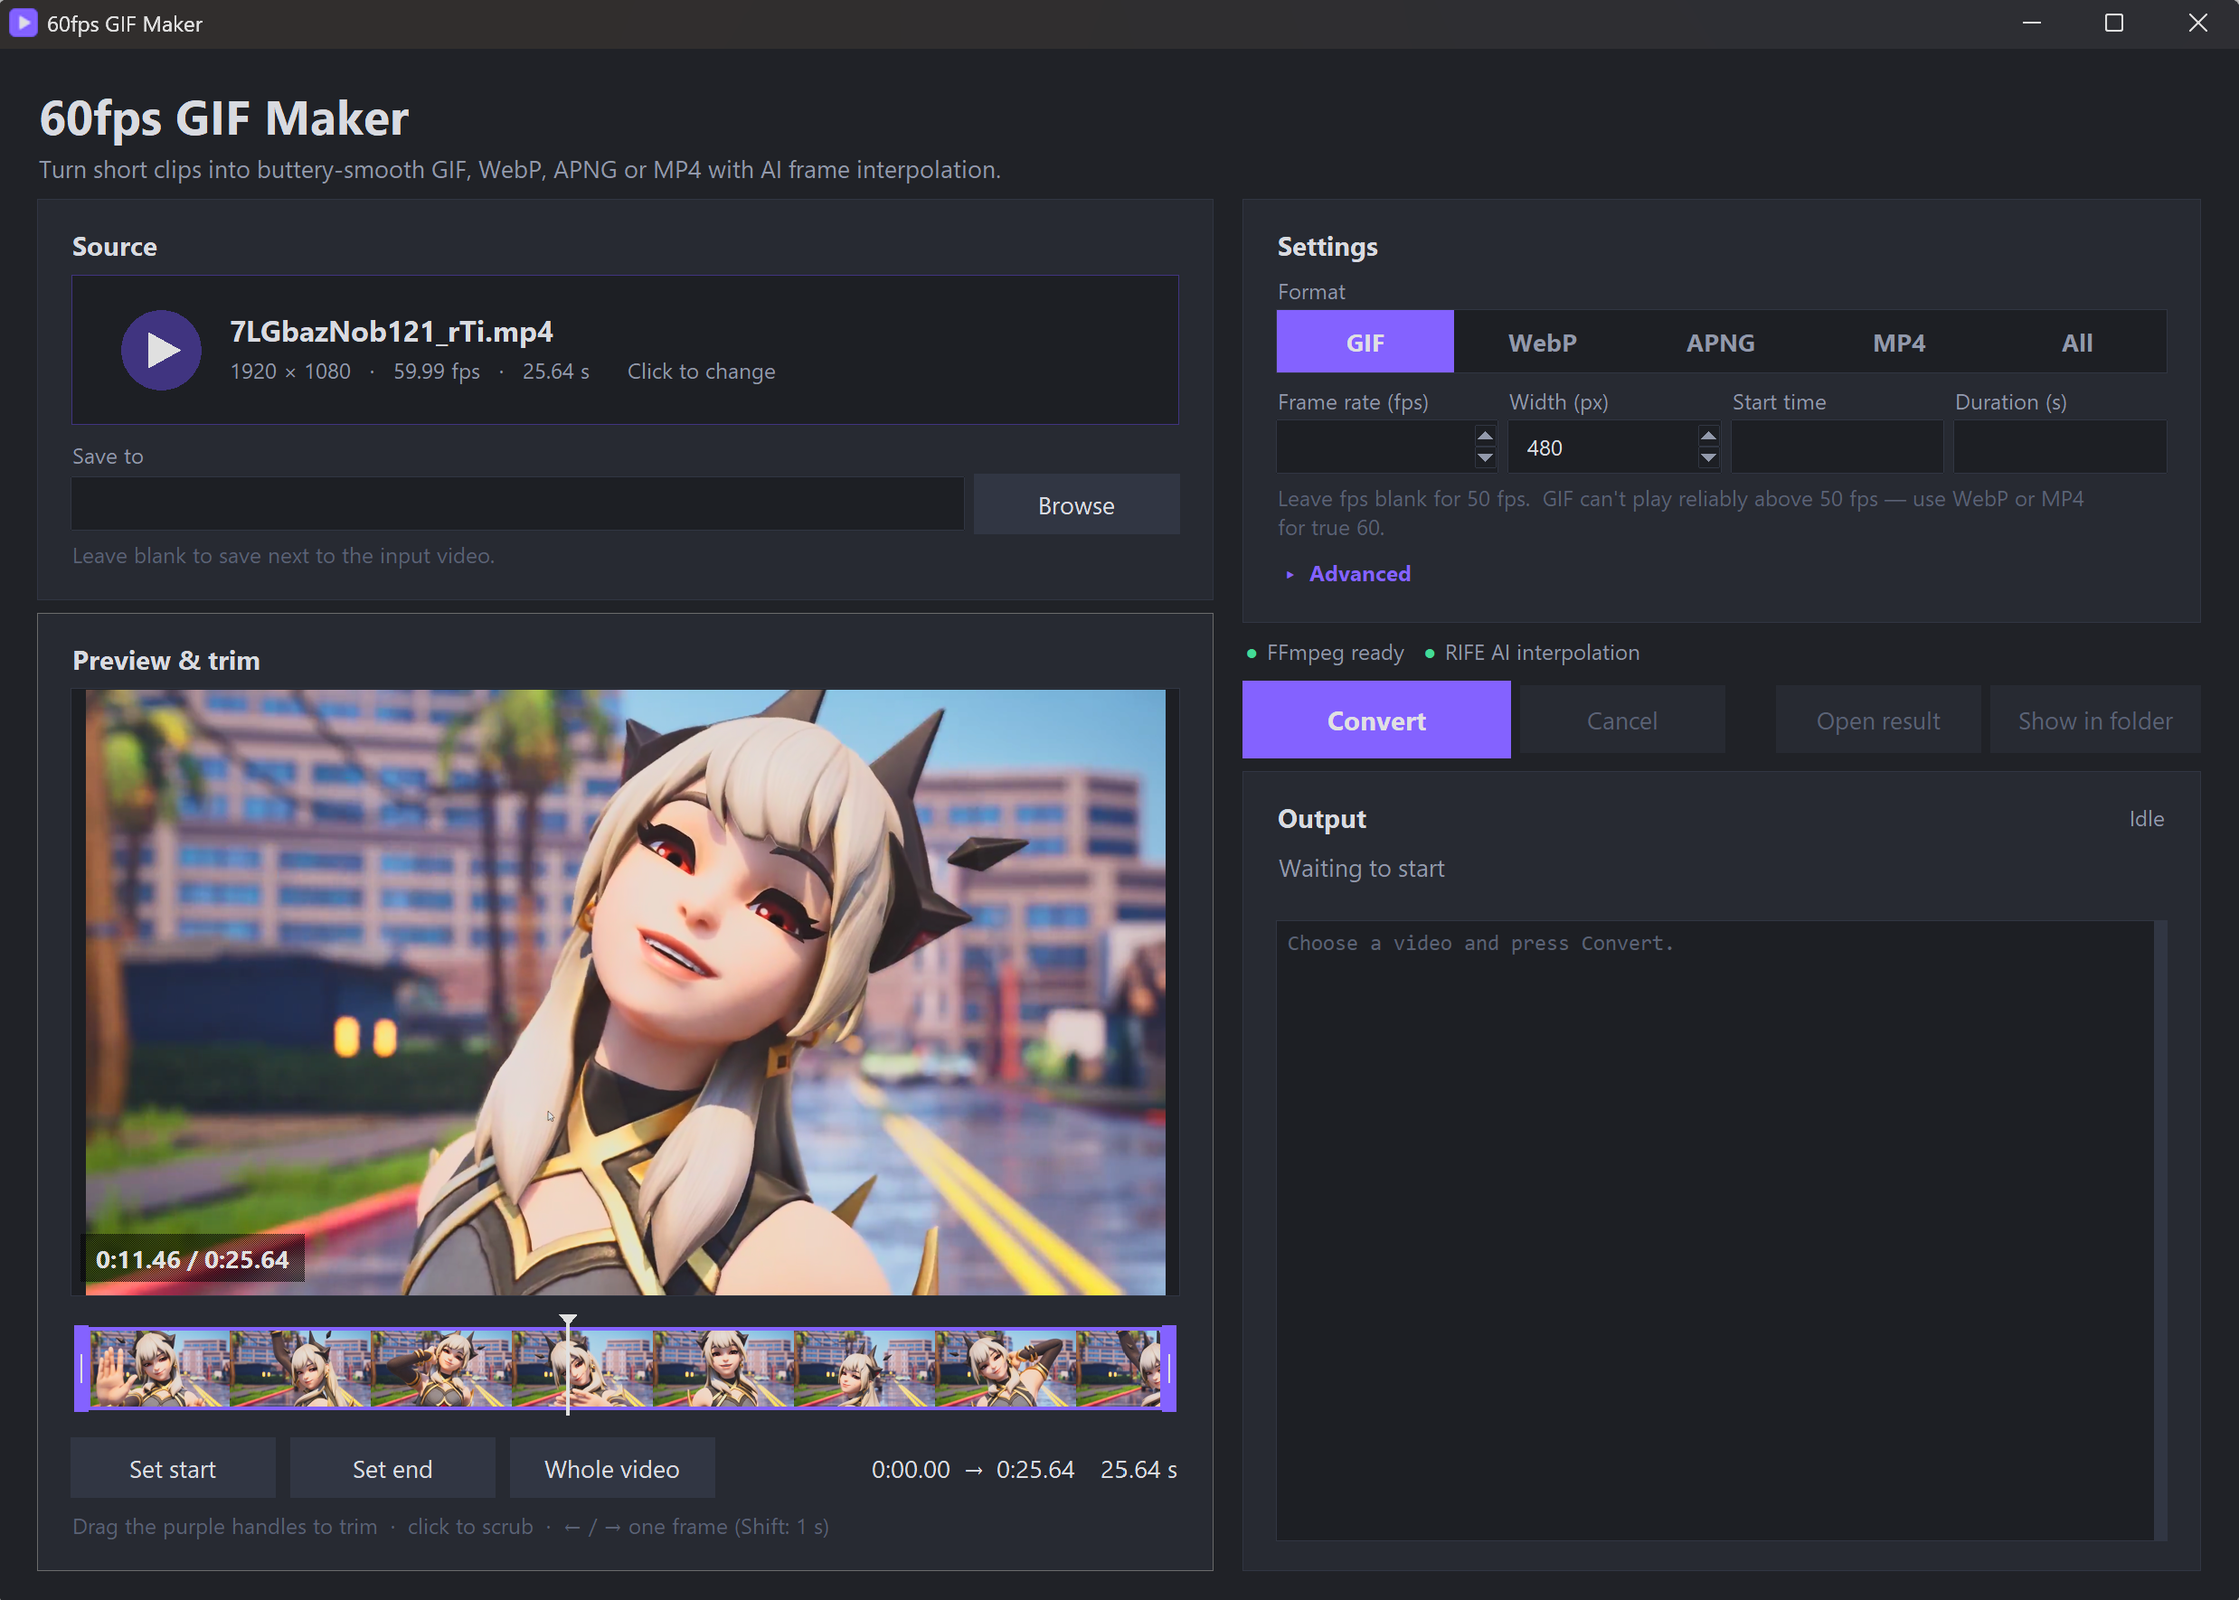
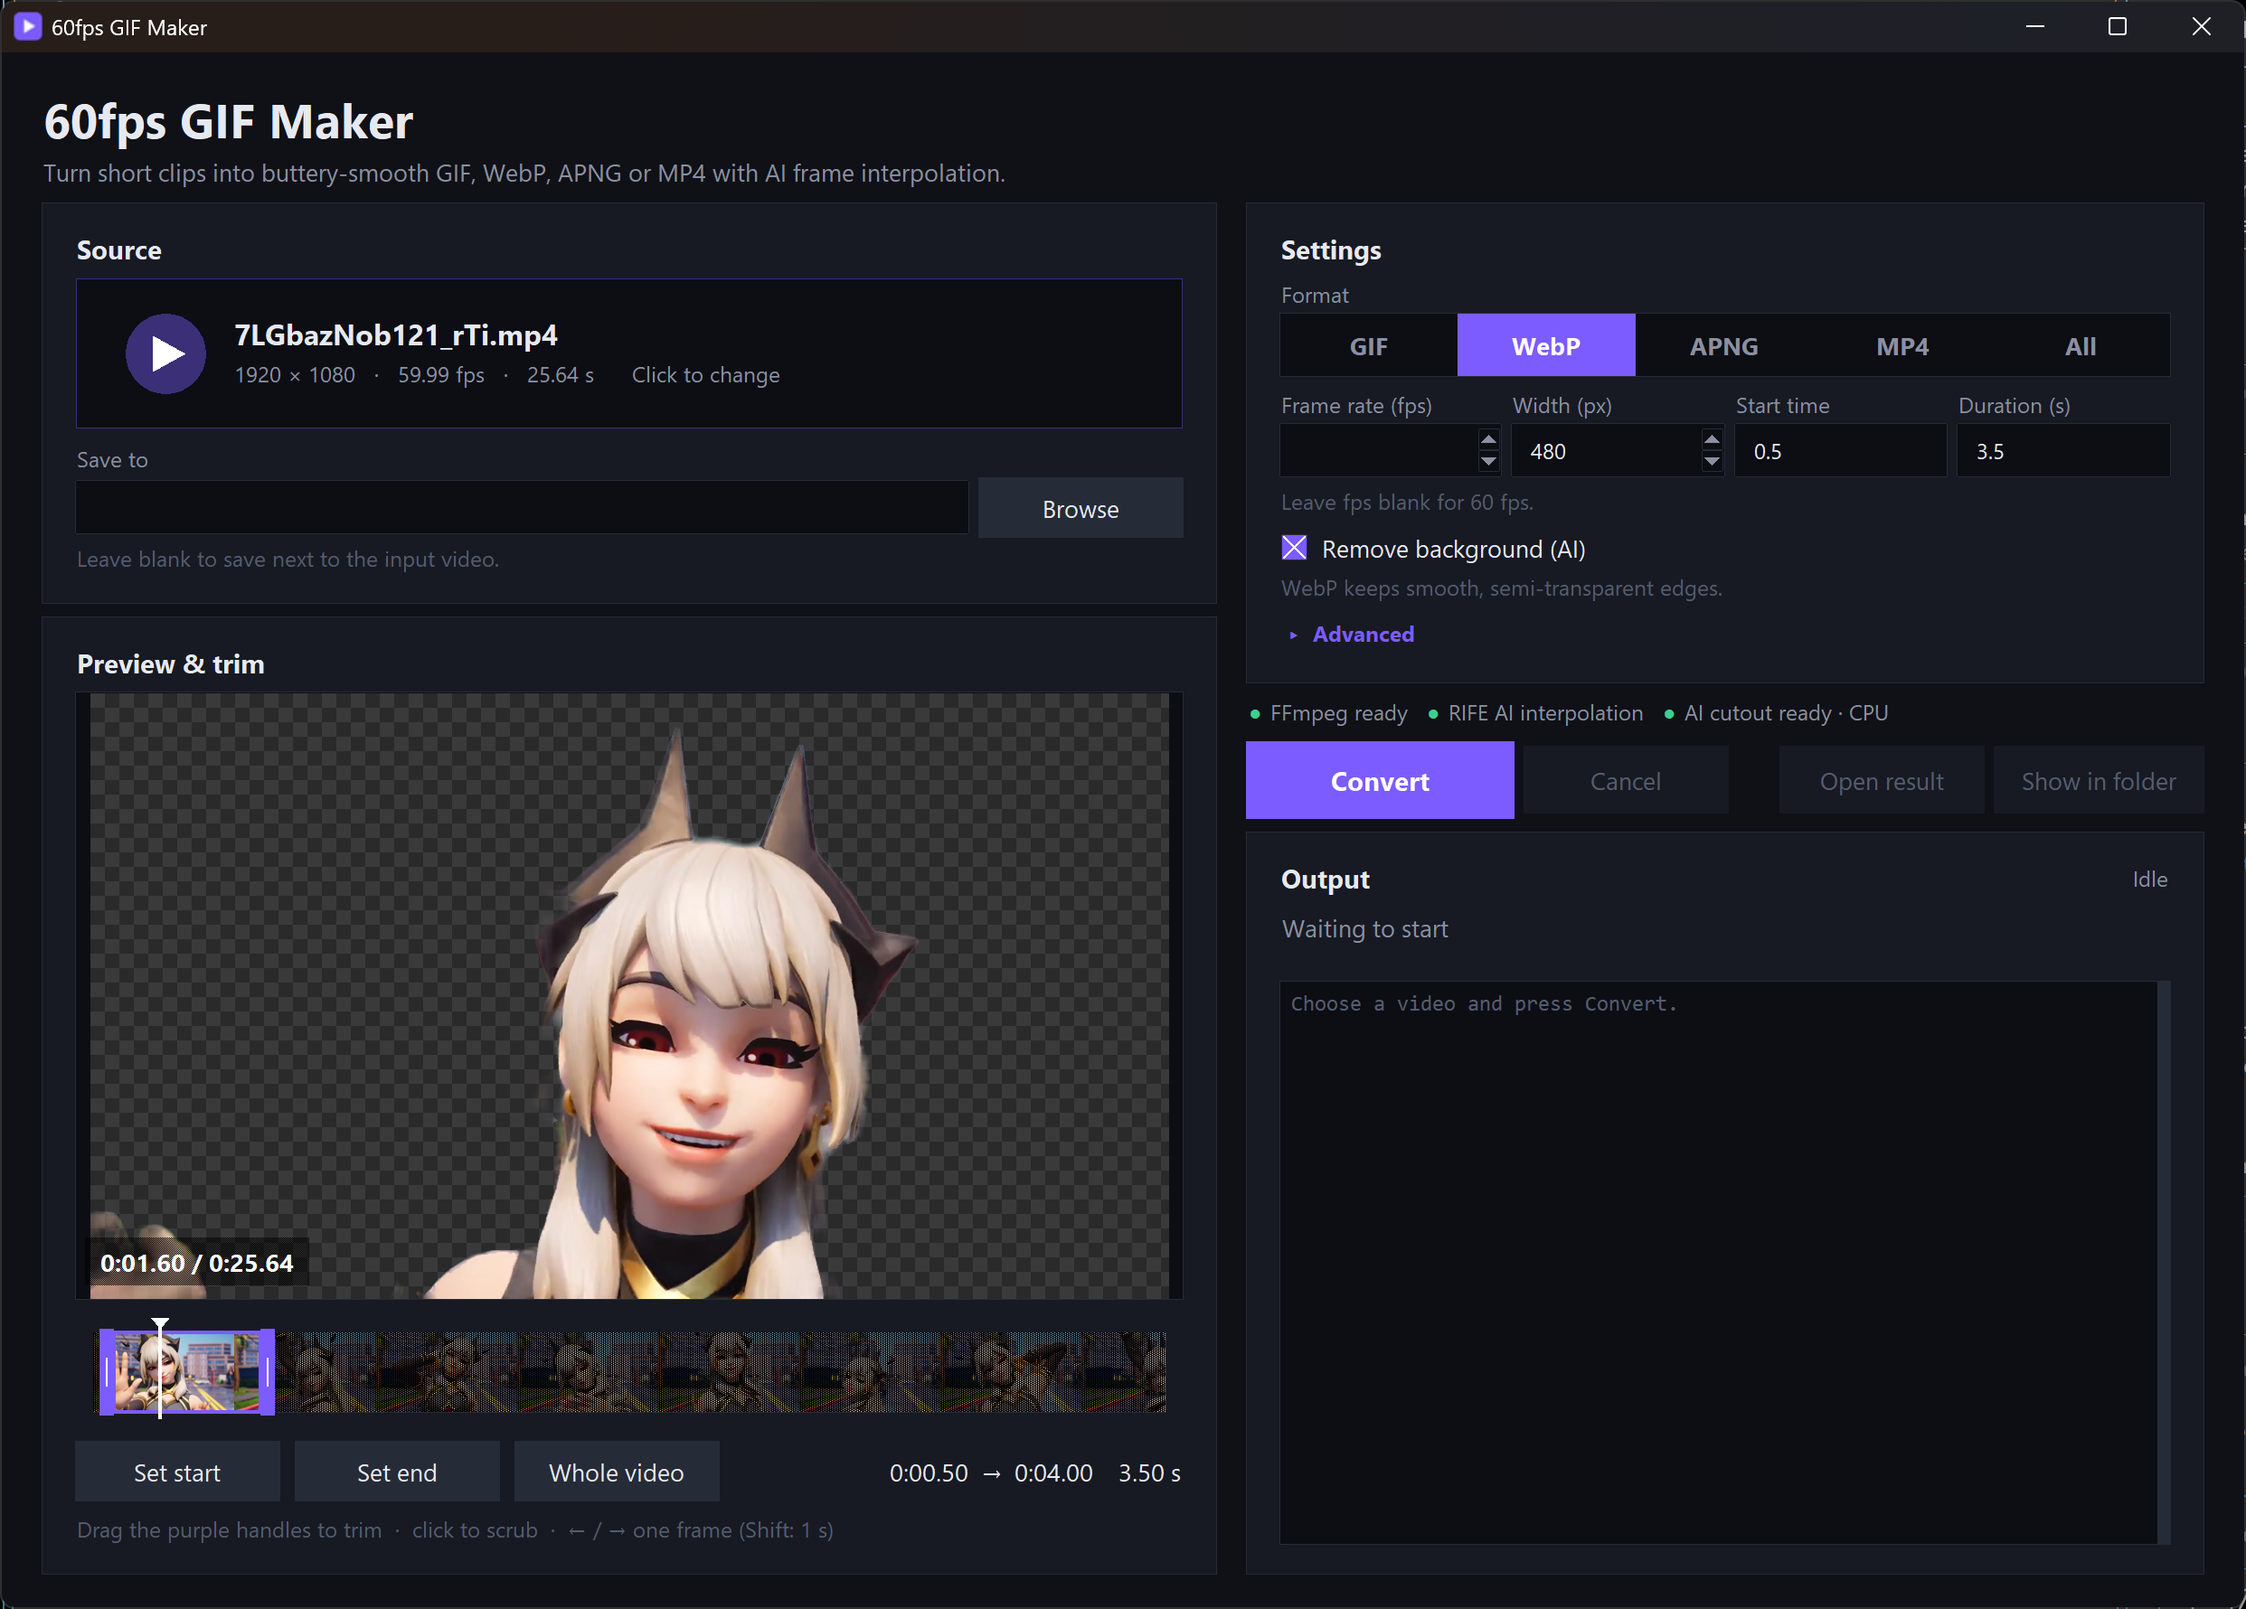
Add background removal example docs
Document the AI background removal workflow with a new example in the README. This adds a side-by-side demo GIF/WebP showing a cutout against a checkerboard, includes output format and size details, and includes a sample CLI command using `--remove-bg`. It also updates the feature description to point readers to the new example and refreshes the app screenshot.

diff --git a/README.md b/README.md
@@ -26,6 +26,21 @@ python fpsgif.py clip_15fps.mp4 -w 360 -o examples/after_50fps.gif
 python fpsgif.py video.mp4 -s 0 -t 4 -w 360 -o examples/demo.gif   # or .webp / .mp4
 ```
 
+## Background removal example
+
+The same clip with the background cut out by AI (see [Remove the background](#remove-the-background)). The original is on the left and the cutout on the right; the checkerboard marks the transparent areas:
+
+![Original vs background removed by AI, side by side](examples/background_removed.gif)
+
+| File | Format | FPS | Size |
+|---|---|---|---|
+| [background_removed.gif](examples/background_removed.gif) | GIF, side by side (above) | 50 | 8.2 MB |
+| [background_removed.webp](examples/background_removed.webp) | WebP, actually transparent | 50 | 2.0 MB |
+
+```
+python fpsgif.py video.mp4 -t 4 -w 320 --remove-bg -o cutout.webp
+```
+
 ## Requirements
 
 - Python 3.9+
@@ -85,7 +100,7 @@ python fpsgif.py clip.mp4 -s 3 -t 4 -w 360     # 4 s starting at 0:03, 360 px wi
 
 ## Remove the background
 
-`--remove-bg` (or **Remove background (AI)** in the app) cuts out the person or character and makes everything else transparent. The app previews the cutout on a checkerboard before you convert.
+`--remove-bg` (or **Remove background (AI)** in the app) cuts out the person or character and makes everything else transparent. The app previews the cutout on a checkerboard before you convert. See the [background removal example](#background-removal-example) for a demo.
 
 It uses [RobustVideoMatting](https://github.com/PeterL1n/RobustVideoMatting), a 15 MB video matting model run through onnxruntime. Unlike single-image cutout models it carries information from frame to frame, so the edges stay steady instead of flickering. It runs on the CPU at about 15 ms per 480 px frame, so a 10 s clip adds roughly 10 s. To use a GPU, install `onnxruntime-directml` (any DirectX 12 GPU on Windows) or `onnxruntime-gpu` (NVIDIA CUDA) instead of `onnxruntime`.
 
